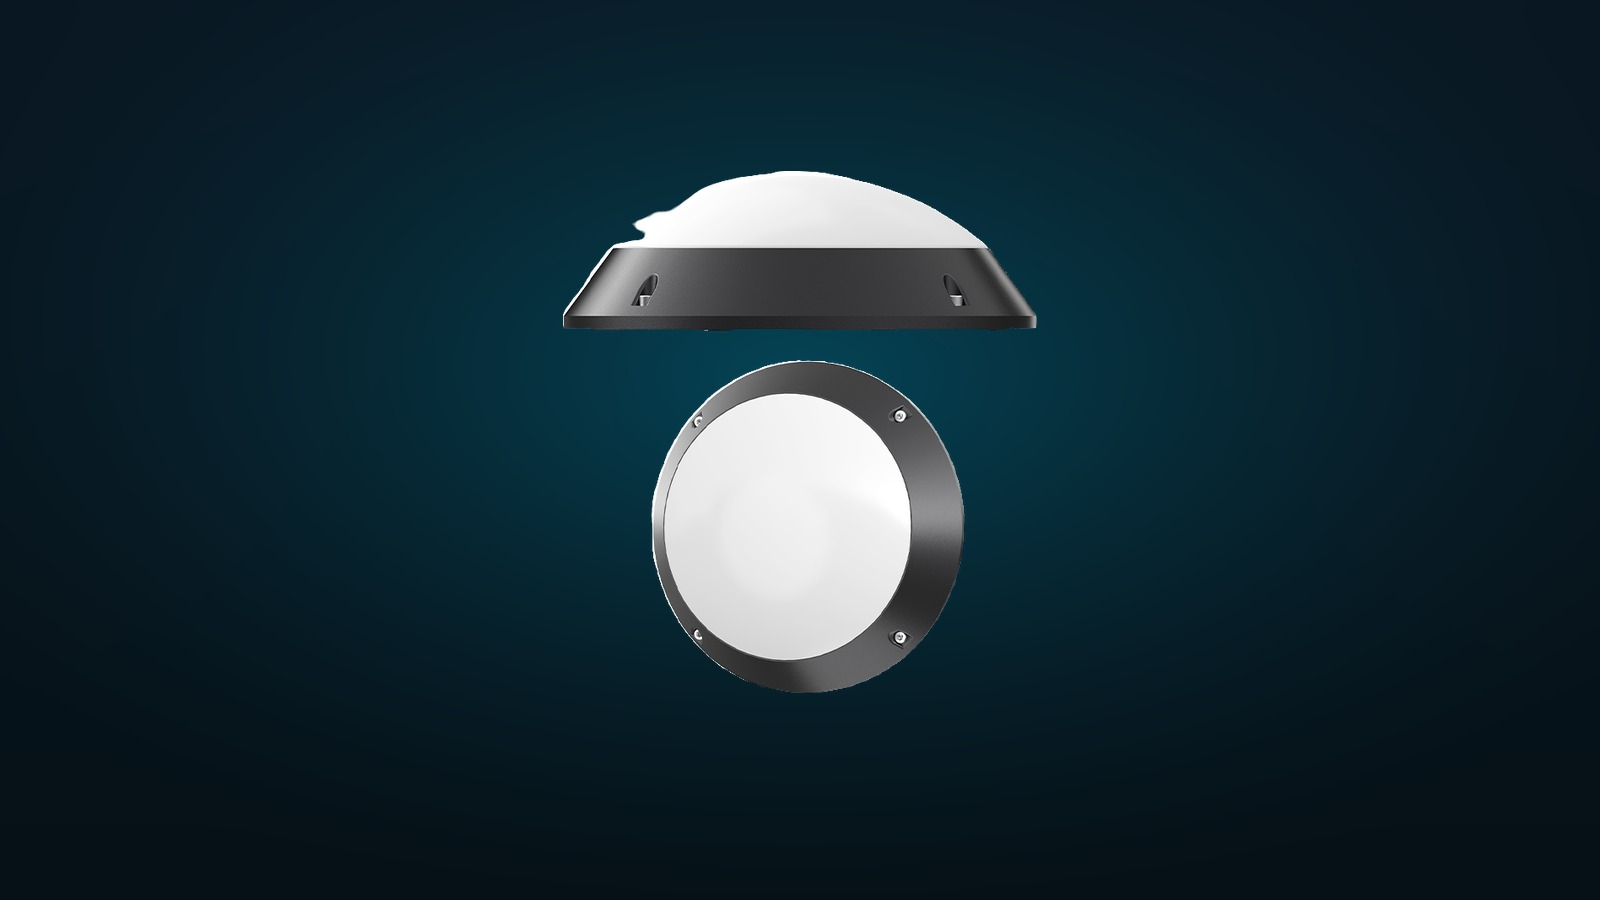
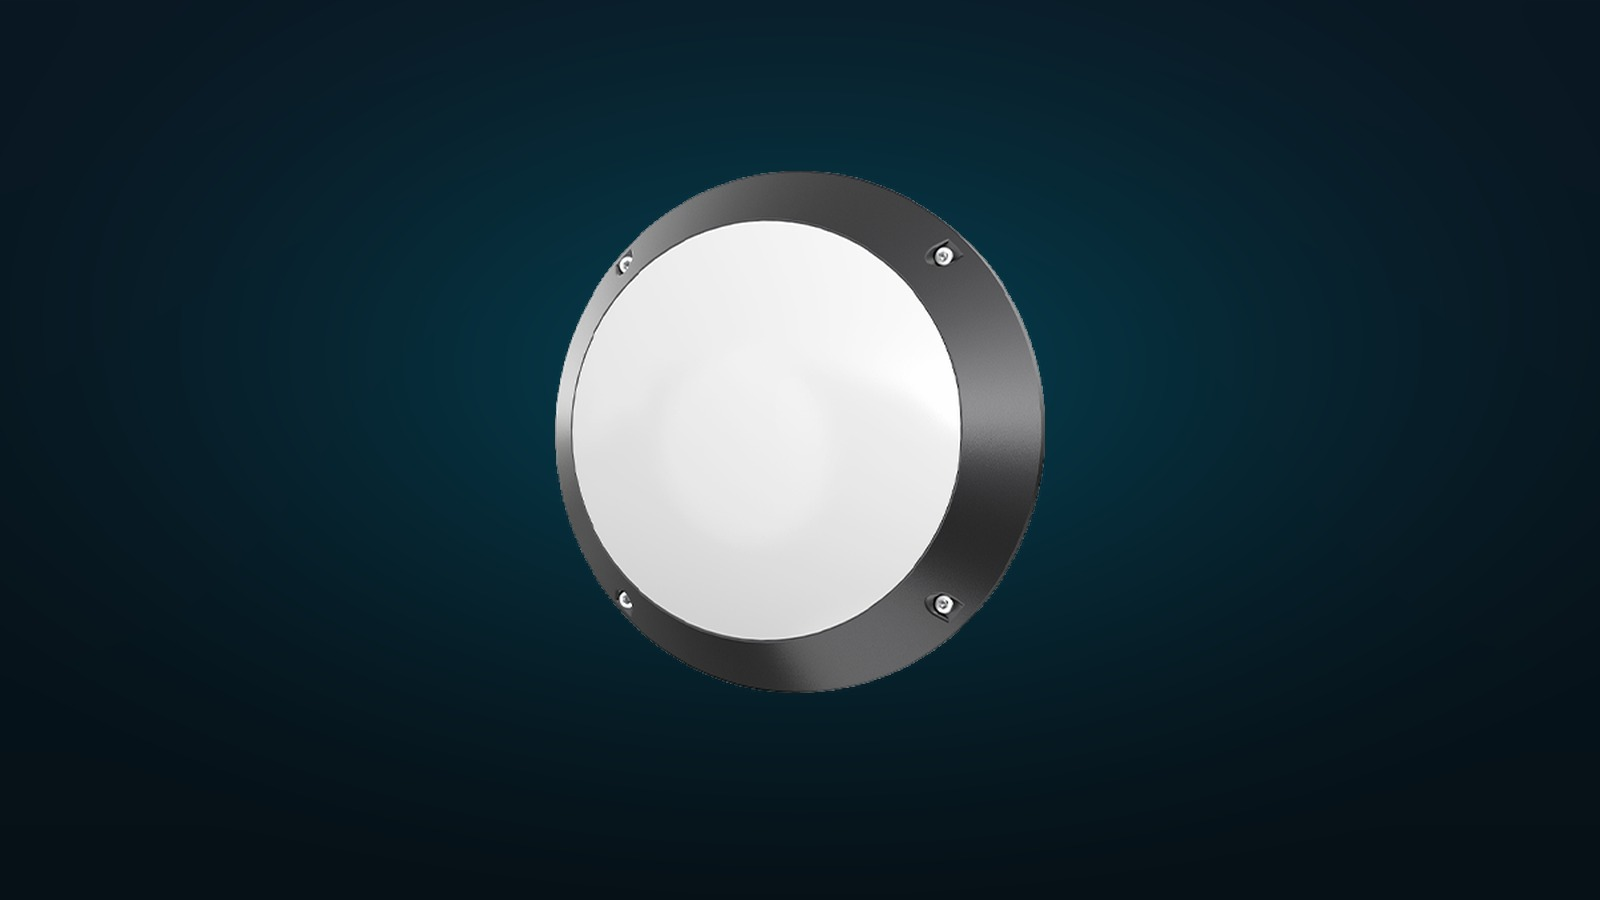
Show one product on the ALU and Bunker cards, not two
Both suppliers ship a composite: a side elevation stacked over a front elevation.
On a card that reads as two products, and the side elevation is the weaker render
— its dome is clipped flat, so it looks like a white shape floating over the
housing.

Each is now cropped to its front view alone. Bunker also loses a hairline seam
through its diffuser, which is a crack in the mask rather than an enclosed hole:
that is why the product sat in FILL_HOLES and nothing happened, since filling can
only reach regions the background cannot.

Two things surfaced while doing this:

  * official_products() never applied SRC_OVERRIDE. These products carry their
    hero in official-products.ts rather than a scraped folder, so an override
    keyed to one of them was silently ignored — the first attempt at this fix
    changed nothing and looked like a caching problem.
  * scripts/crop-single-view.py does the crop. It keeps the largest shape and
    squares it, with a --blob flag when the largest is not the one wanted.

hero and pc-bulkhead have the same composite problem but no single-view
alternative in their sources — every file is the same four exploded pieces. Left
alone pending a decision, since cropping to one piece would hide the variants.

Changed region(s): [[0.3438, 0.1867, 0.6562, 0.7778], [0.5312, 0.7467, 0.5625, 0.7778]]

diff --git a/scripts/crop-single-view.py b/scripts/crop-single-view.py
@@ -1,0 +1,91 @@
+#!/usr/bin/env python3
+"""Crop a supplier composite down to its single main product view.
+
+Several suppliers ship one image holding two views of a fitting stacked
+vertically — usually a side elevation over a front elevation. On a product card
+that reads as two products, and the side elevation is often the weaker render,
+with the dome or diffuser clipped flat.
+
+This keeps the largest connected shape, squares it on white, and pads it. It is
+for the specific case where a composite has no single-view alternative; check the
+supplier's other files first, as they sometimes do.
+
+    python3 scripts/crop-single-view.py <source> <output.png> [--blob N]
+
+--blob picks by area rank instead of the default largest, when the largest shape
+is not the one wanted.
+"""
+import sys
+from collections import deque
+
+import numpy as np
+from PIL import Image
+
+
+def blobs_of(mask: np.ndarray) -> list[list[tuple[int, int]]]:
+    h, w = mask.shape
+    seen = np.zeros((h, w), bool)
+    out = []
+    for y0 in range(0, h, 3):
+        for x0 in range(0, w, 3):
+            if not mask[y0, x0] or seen[y0, x0]:
+                continue
+            q = deque([(x0, y0)])
+            seen[y0, x0] = True
+            comp = []
+            while q:
+                x, y = q.popleft()
+                comp.append((x, y))
+                for dx, dy in ((1, 0), (-1, 0), (0, 1), (0, -1), (2, 0), (-2, 0), (0, 2), (0, -2)):
+                    nx, ny = x + dx, y + dy
+                    if 0 <= nx < w and 0 <= ny < h and not seen[ny, nx] and mask[ny, nx]:
+                        seen[ny, nx] = True
+                        q.append((nx, ny))
+            if len(comp) > 500:
+                out.append(comp)
+    return out
+
+
+def main() -> int:
+    args = [a for a in sys.argv[1:] if not a.startswith('--')]
+    if len(args) < 2:
+        print(__doc__)
+        return 1
+    src, out = args[0], args[1]
+    rank = 0
+    if '--blob' in sys.argv:
+        rank = int(sys.argv[sys.argv.index('--blob') + 1])
+
+    im = Image.open(src).convert('RGB')
+    grey = np.array(im.convert('L')).astype(int)
+    # Anything darker than the sweep. The threshold is generous because these
+    # composites sit on white with soft shadows.
+    blobs = blobs_of(grey < 235)
+    if not blobs:
+        print('  no product shape found')
+        return 1
+    blobs.sort(key=len, reverse=True)
+    if rank >= len(blobs):
+        print(f'  only {len(blobs)} shapes; cannot pick #{rank}')
+        return 1
+    if len(blobs) > 1:
+        print(f'  {len(blobs)} shapes: ' + ', '.join(f'#{i}={len(b)}px' for i, b in enumerate(blobs[:4])))
+
+    chosen = blobs[rank]
+    xs = [p[0] for p in chosen]
+    ys = [p[1] for p in chosen]
+    pad = 24
+    box = (max(0, min(xs) - pad), max(0, min(ys) - pad),
+           min(im.width, max(xs) + pad), min(im.height, max(ys) + pad))
+    crop = im.crop(box)
+
+    side = max(crop.size) + 40
+    canvas = Image.new('RGB', (side, side), (255, 255, 255))
+    canvas.paste(crop, ((side - crop.width) // 2, (side - crop.height) // 2))
+    canvas.save(out)
+    print(f'  {im.size} -> {canvas.size}   {out}')
+    return 0
+
+
+if __name__ == '__main__':
+    sys.exit(main())

diff --git a/scripts/make-product-tiles.py b/scripts/make-product-tiles.py
@@ -48,6 +48,15 @@ SRC_OVERRIDE = {
     # out in a circle, which segmented as a ring with fragments inside it. The
     # clean studio shots of the same fitting are two files along.
     'linears/lf55': 'public/scraped/linears/lf55/02-lightframe55surfaceblack.jpg',
+    # The shipped ALU_BLUKHEAD.png stacks a side view over a front view, and the
+    # side view's dome is clipped flat. Cropped from the unclipped img-001.png to
+    # the round front view alone, so the card shows one product rather than two
+    # shapes with a floating dome.
+    'bulkheads/alu-bulkhead': 'public/product-images/alu-bulkhead-round.png',
+    # Same shape of problem: a side elevation over a front elevation, with the
+    # side view's dome clipped. member-02 is the square variant, cropped to its
+    # front view.
+    'bulkheads/bunker': 'public/product-images/bunker-round.png',
     # The three is-3360/is-345 files held a copy of the Smart Remote photo and
     # steinel-smart-remote.png held a sensor, so these products were showing the
     # wrong device entirely. Pulled from the supplier's own product pages.
@@ -93,8 +102,11 @@ def official_products():
         img = re.search(r"image: '([^']+)'", b)
         name = re.search(r"name: '([^']+)'", b)
         if slug and cat and img:
+            # SRC_OVERRIDE has to be applied here too. These products carry their
+            # hero in official-products.ts rather than a scraped folder, and
+            # without this an override keyed to one of them was silently ignored.
             out.append((cat.group(1), slug.group(1), name.group(1) if name else slug.group(1),
-                        ['public' + img.group(1)]))
+                        _apply_override(cat.group(1), slug.group(1), ['public' + img.group(1)])))
     for m in re.finditer(r"fromScraped\(\s*'([^']+)',\s*'([^']+)',\s*'([^']+)'(.*?)\),\n", src, re.S):
         cat, scraped, name, rest = m.groups()
         hero = re.search(r"hero: '([^']+)'", rest)

diff --git a/scripts/make-cutouts.py b/scripts/make-cutouts.py
@@ -344,10 +344,6 @@ def main():
     if args:
         items = [i for i in items if i[1] in args]
 
-    # isnet-general-use, not u2net. Measured across the catalogue it is equal or
-    # better on every product, and decisively better on pale fittings on pale
-    # backdrops, where u2net returns a near-empty mask: profiles went 2.6% -> 95.6%
-    # solid, lf20 28% -> 57%, Leda 63% -> 70%.
     sessions = {}
     done = skipped = failed = 0
     started = time.time()
